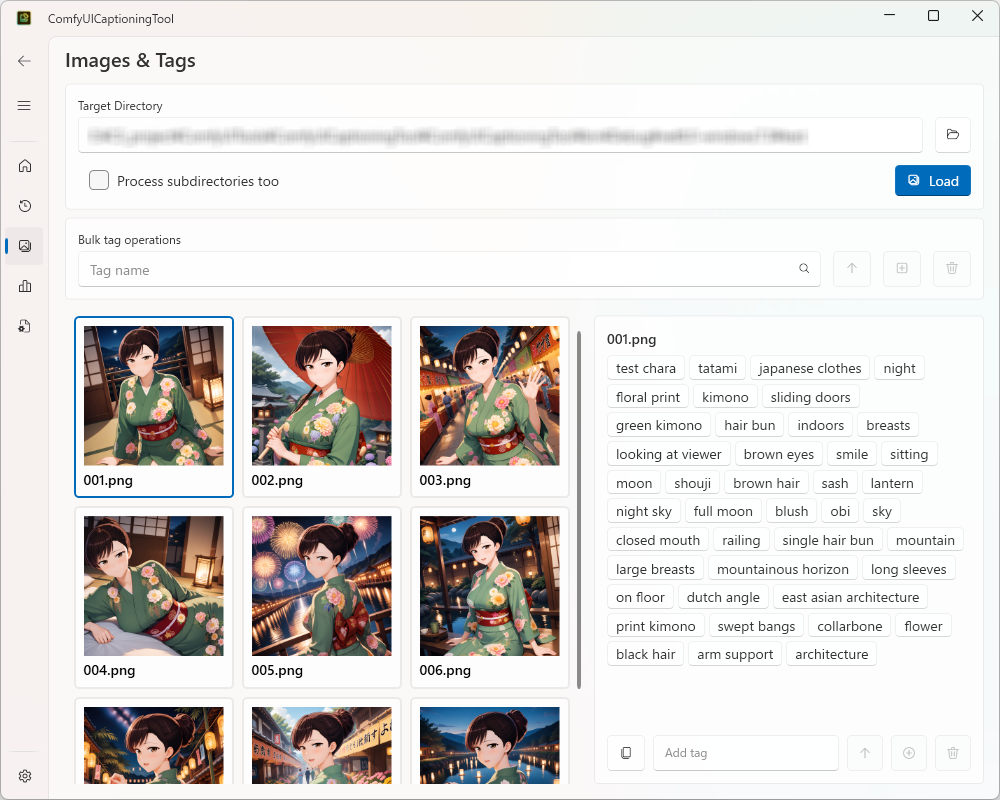
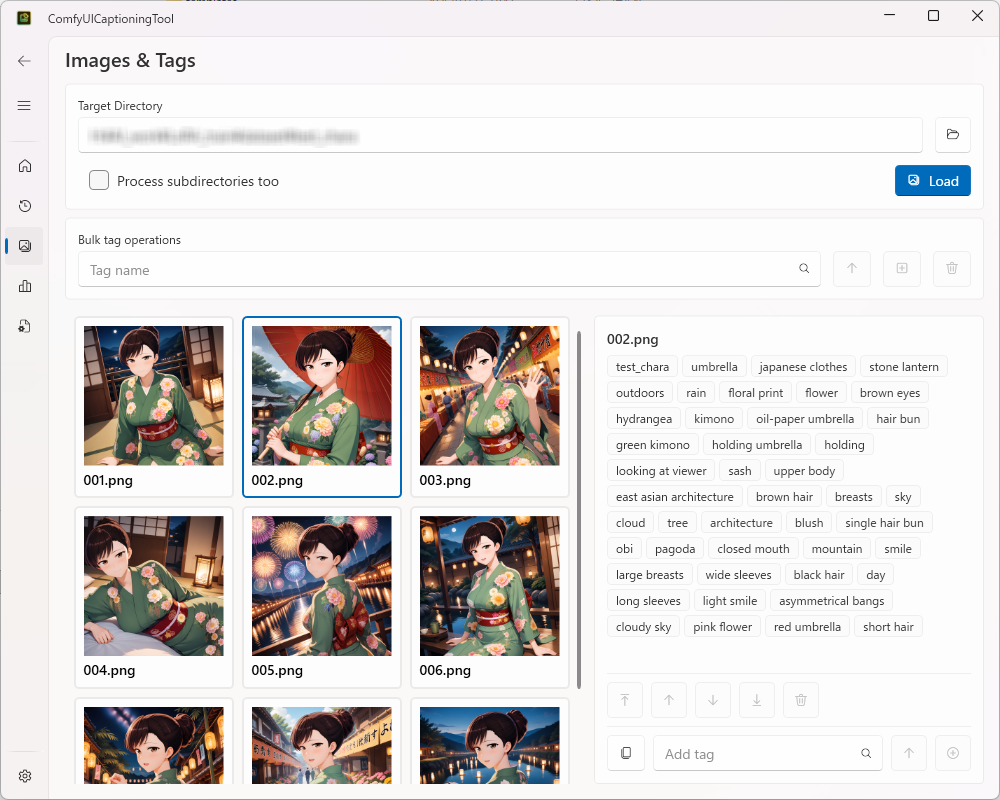
docs: README/usage.mdをフェーズ26〜30の実装内容に合わせて更新
v1.0.0(362872d)以降のGalleryPage選択タグ並び替え・作業ログ出力・
ReportPageの使用画像一覧表示・タグ追加入力欄のAutoSuggestBox化などが
未反映だったため、README.md/doc/usage.md（日英）を更新し、該当箇所の
スクリーンショットを撮り直した。

diff --git a/doc/usage_english.md b/doc/usage_english.md
@@ -162,12 +162,16 @@ Use the input field and buttons below the tag list to edit tags.
 | ↑ (Add to start) | Adds the input field's content to the start of the tag list |
 | ＋ (Add to end) | Adds the input field's content to the end of the tag list (Enter key also works) |
 | 🗑 (Remove selected) | Removes all currently selected (toggled) tags at once. Disabled when nothing is selected |
+| ⬆ (Move selected to start) | Moves all selected tags to the start of the tag list, preserving their relative order. Disabled when nothing is selected |
+| ↑ (Move up) | Moves each selected tag one position earlier. Consecutively selected tags move together as one block |
+| ↓ (Move down) | Moves each selected tag one position later |
+| ⬇ (Move selected to end) | Moves all selected tags to the end of the tag list, preserving their relative order |
 
-Every add/remove is saved immediately to the image's same-named `.txt` file — there's no separate save button. If a tag list becomes empty, the `.txt` file itself is deleted.
+Every add/remove is saved immediately to the image's same-named `.txt` file — there's no separate save button. If a tag list becomes empty, the `.txt` file itself is deleted. Reordering is saved immediately the same way.
 
-Adding a tag checks for duplicates case-insensitively, so the same tag can't be added twice.
+Adding a tag checks for duplicates case-insensitively, so the same tag can't be added twice. The input field offers suggestions (`ui:AutoSuggestBox`) drawn from **the tags already on the selected image** (unlike the bulk-operations input in 5.3, which suggests from the whole target directory's `tags_report.txt`). Typing the name of a tag that's already on the image and clicking either add button selects that tag (as a toggle) instead of adding a duplicate — no files are written in that case.
 
-Tag add/remove operations are also reflected in the `captioning_config_result.json` file in the target directory (see [3.2](#32-files-produced-by-a-run)): added tags are appended to `prepend_tags`, removed tags to `exclude_tags`, so the next batch-tagging run can pick them up.
+Tag add/remove operations are also reflected in the `captioning_config_result.json` file in the target directory (see [3.2](#32-files-produced-by-a-run)): added tags are appended to `prepend_tags`, removed tags to `exclude_tags`, so the next batch-tagging run can pick them up. (Reorder-only operations are not reflected here.)
 
 ### 5.3 Bulk Tag Operations
 
@@ -181,6 +185,19 @@ The **Bulk Tag Operations** card, below the directory selection card, lets you a
 
 The input field offers suggestions (via `ui:AutoSuggestBox`), populated from the target directory's `tags_report.txt` (the suggestion list refreshes automatically after loading images and after each tag edit; if `captioning_config.json`'s path isn't set, suggestions simply won't appear — nothing else is affected).
 
+### 5.4 Edit Log (gallery_edit_log.jsonl)
+
+Every time you add, remove, or reorder a tag — whether per-card or in bulk — an entry is appended to `gallery_edit_log.jsonl` (JSON Lines format, one operation per line) in the same folder as the image. There's no in-app viewer for this file, but you can open it in a text editor later to track what was edited and when.
+
+| operation | Meaning |
+|---|---|
+| `add_start` | Tag added to the start |
+| `add_end` | Tag added to the end |
+| `remove` | Tag removed |
+| `reorder_to_start` / `reorder_to_end` / `reorder_up` / `reorder_down` | Selected tags reordered |
+
+Operations with no actual effect (e.g. trying to move a tag that's already at the start/end) are not logged. If writing the log fails, it does not affect the tag edit itself (the `.txt` file is still saved).
+
 ---
 
 ## 6. Tag Report
@@ -193,6 +210,7 @@ The input field offers suggestions (via `ui:AutoSuggestBox`), populated from the
 2. Check **Process subdirectories too** if needed.
 3. Click **Generate / Refresh** — this writes `tags_report.txt` directly under the target directory and lists its contents (tag name and count).
 4. Type into the search box above the list to filter it down to tags containing that text (case-insensitive substring match). The search box offers suggestions from the generated report's tag list. Clear it to show all tags again.
+5. Click a tag row in the list to show the filenames of every image using that tag in the card below (sorted alphabetically). A prompt message is shown when nothing is selected. Regenerating the report resets the selection.
 
 ---
 

diff --git a/doc/README_english.md b/doc/README_english.md
@@ -12,8 +12,8 @@ A tool for image captioning (tagging) using ComfyUI (WD Timm Tagger), operated f
 - Tag filtering via prepend tags and exclude tags (merges the defaults from `captioning_config.json` with the tags entered at run time)
 - Import prepend/exclude tags from another `captioning_config.json`
 - List of execution results (success/failure, processed count, per-file log)
-- Gallery view showing images alongside their tags, with editing (add/remove tags per card or in bulk, copy a tag list to the clipboard)
-- Generate and view a tag count report (with interactive filtering by tag name)
+- Gallery view showing images alongside their tags, with editing (two-pane layout: image tiles + tag editor for the selected image; tag selection and reordering, bulk add/remove, copy a tag list to the clipboard, and an edit history log)
+- Generate and view a tag count report (with interactive filtering by tag name, and a list of images using the selected tag)
 - Edit `captioning_config.json` (ComfyUI URL, WD14 model name, thresholds, default prepend/exclude tags) directly from the GUI
 - Theme switching and persisted connection settings
 - Japanese/English display language switching (Settings page, applies immediately, no restart required)
